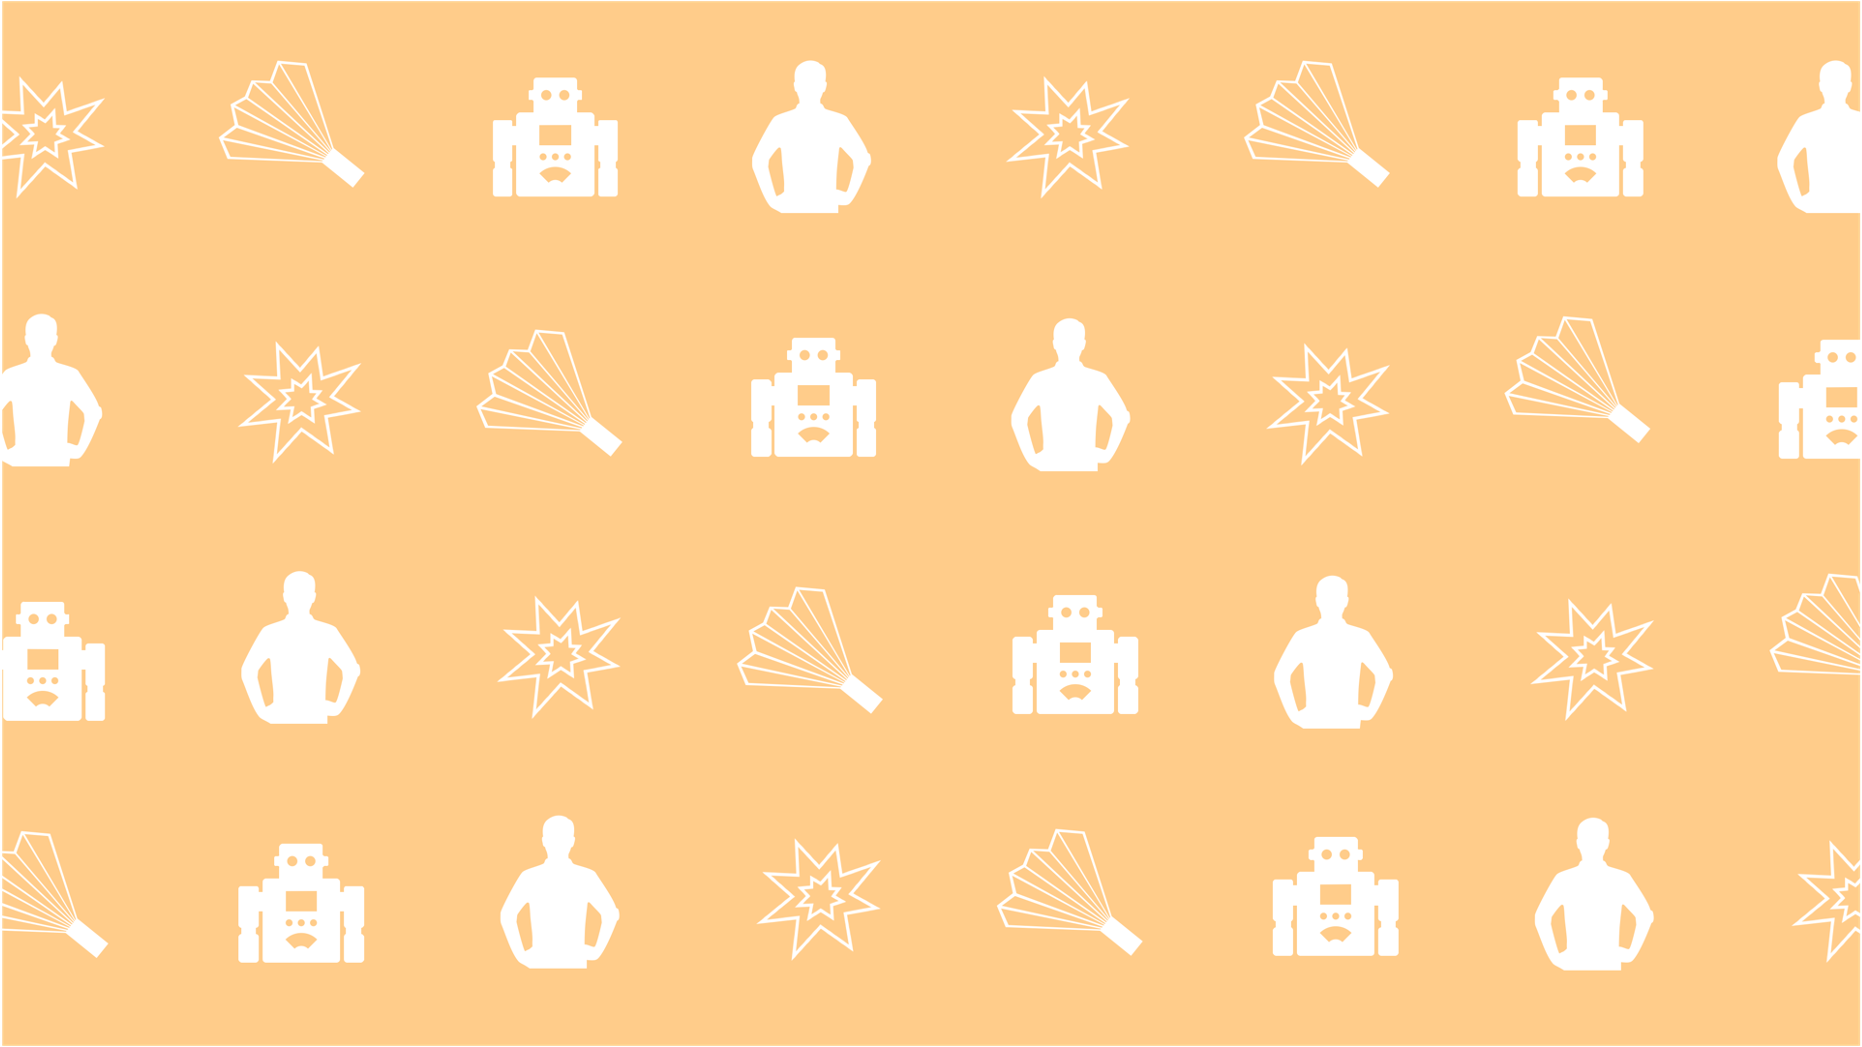
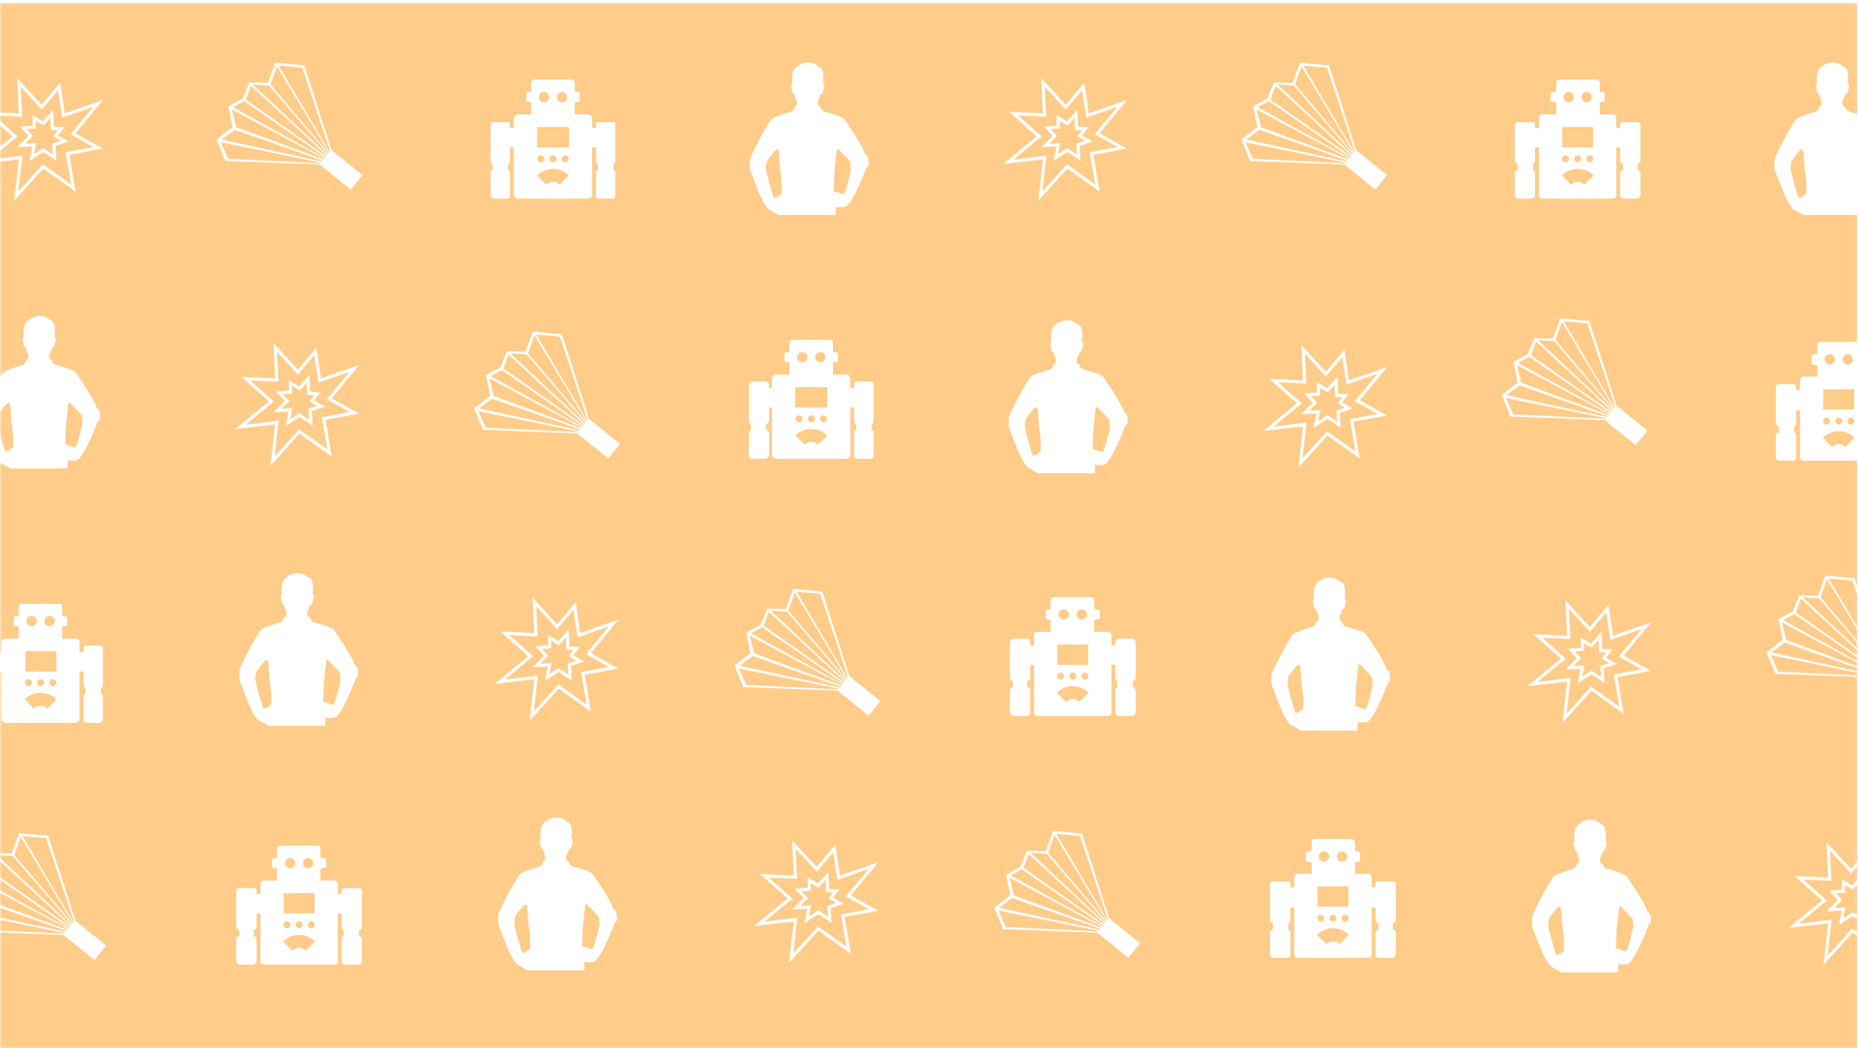
change main figure

diff --git a/src/components/Home.vue b/src/components/Home.vue
@@ -82,7 +82,8 @@ export default {
   padding: 0;
   margin: 0;
   text-align: center;
-  background: white;
+  background: #FFCC8A;
+  border: none
 }
 .image1 {
   /* width: 100%; */
